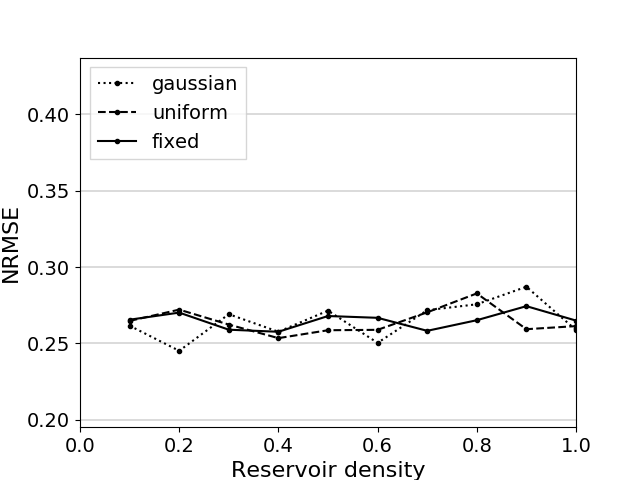
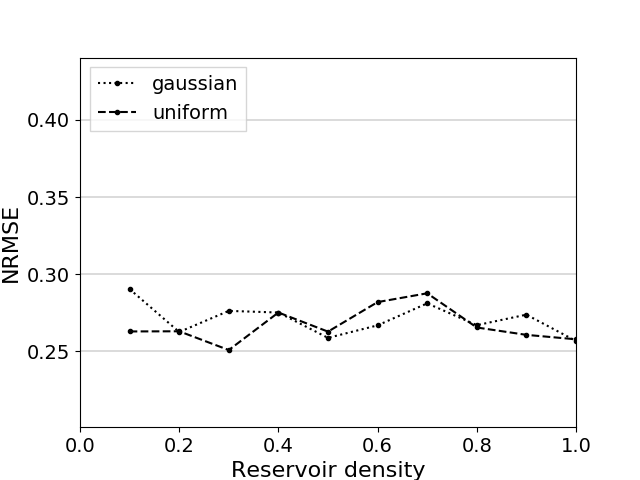
Fix internal reservoir weight distributions.

diff --git a/py/ESN.py b/py/ESN.py
@@ -16,7 +16,8 @@ class ESN(nn.Module):
     def __init__(self, hidden_nodes, spectral_radius=0.9, washout=200,
                  w_in_density=1.0, w_out_density=1.0, w_res_density=1.0,
                  input_scaling=1.0, w_in_distrib=Distribution.uniform,
-                 w_res_distrib=Distribution.uniform):
+                 w_res_distrib=Distribution.uniform, awngn_train_std=0.0,
+                 awgn_test_std=0.0):
         super(ESN, self).__init__()
 
         self.hidden_nodes = hidden_nodes
@@ -28,6 +29,7 @@ class ESN(nn.Module):
         self.washout = washout
         self.input_scaling = input_scaling
         self.w_in_distrib = w_in_distrib
+        self.w_res_distrib = w_res_distrib
 
         # We can't just mask w_out with the density, as the masked out nodes
         # must be hidden during training as well.
@@ -36,7 +38,13 @@ class ESN(nn.Module):
         self.w_out_mask = torch.from_numpy(self.w_out_mask)
         self.output_dim = self.w_out_mask.shape[0]
 
-        w_res = torch.rand(self.hidden_nodes, self.hidden_nodes) - 0.5
+        if self.w_res_distrib == Distribution.gaussian:
+            w_res = torch.empty(self.hidden_nodes, hidden_nodes).normal_(mean=0.0, std=1.0)
+        elif self.w_res_distrib == Distribution.uniform:
+            w_res = torch.rand(self.hidden_nodes, self.hidden_nodes) - 0.5
+        elif self.w_res_distrib == Distribution.fixed:
+            w_res = torch.ones(self.hidden_nodes, self.hidden_nodes)
+
         w_res[torch.rand(self.hidden_nodes, self.hidden_nodes) > self.w_res_density] = 0.0
         w_res *= self.spectral_radius / _spectral_radius(w_res)
 

diff --git a/sections/results.tex b/sections/results.tex
@@ -80,7 +80,9 @@ containing non-zero elements.
   \centering
   \includegraphics[width=2.5in]{img/reservoir_density_distrib.png}
   \caption{
-    Reservoir density versus for three weight distributions.
+    Reservoir density versus for two weight distributions. Fixed weight will not
+work for internal nodes, unless special topology is employed, e.g. ring
+(elaborate). This shows that sparse internal weight matrices work fine.
   }
   \label{performance}
 \end{figure}

diff --git a/py/plot.py b/py/plot.py
@@ -191,7 +191,7 @@ def grid_search_w_res_density_w_res_distrib(dataset):
     # NB: The keys will always be sorted for reproducibility, so keep them
     # sorted here.
     density = np.arange(0.1, 1.1, 0.1)
-    distrib = [Distribution.gaussian, Distribution.uniform, Distribution.fixed]
+    distrib = [Distribution.gaussian, Distribution.uniform]
     params = {
         'w_res_density': density,
         'w_res_distrib': distrib,

diff --git a/py/main.py b/py/main.py
@@ -13,6 +13,7 @@ def run_single_esn(dataset):
     esn = ESN(
         hidden_nodes=200,
         input_scaling=1.0,
+        w_res_distrib=Distribution.gaussian
     )
 
     print('NRMSE:', evaluate_esn(dataset, esn))
